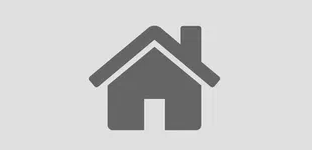
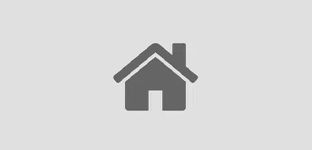
Final modification

Changed region(s): [[0.2885, 0.16, 0.7212, 0.88]]

diff --git a/index.html b/index.html
@@ -11,7 +11,7 @@
 	<link rel="preconnect" href="https://fonts.gstatic.com" crossorigin>
 	<link href="https://fonts.googleapis.com/css2?family=Bebas+Neue&display=swap" rel="stylesheet">
 	<link rel="stylesheet" href="css/style.css">
-	<title>Swiper</title>
+	<title>DAY ZERO STUDIO - Game Developer's Portfolio</title>
 </head>
 <body>
 	<div class="wrapper">
@@ -23,18 +23,19 @@
 					<div class="image-slider__wrapper swiper-wrapper">
 
 						<div data-hash='slide-1' class="image-slider__slide swiper-slide">
-							<video autoplay muted loop="loop" class="video">
-								<source src="videos/overdrive.mp4" type="video/mp4">
-							</video>
+							<img src="img/portfolio.jpg" alt="Picture" class='portfolio'></img>
 							<div class="description">
 
-								<span class="title-project">OVERDRIVE ESCAPE (2023)</span>
+								<span class="title-project">ABOUT ME (1999)</span>
 
-								<p><span class="label actiongame">Action Game</span><span class="label shooter">First-person shooter</span><span class="label access">Early Access</span></p>
-
-								<p>Enter the neon-lit world of Overdrive Escape, a fast-paced 3D first-person shooter that will unleash your abilities and test your skills. You will have to survive against waves of enemies and explore randomly generated levels that will challenge you every time. This scam shooter is made in the style of cyberpunk and synthwave, with breathtaking graphics and a breathtaking soundscape that will keep you on your toes.</p>
-
-								<p><a href="http://specialops.suicidesquad.com/">Download</a></p>
+								<p>I am Orazgylyjov Davut, a professional video game developer and an inspiring entrepreneur. The owner and founder of the game development studio Day Zero Studio. I have been developing video games for my studio for more than 7 years. I have successfully produced four unique games that have earned a place on the Steam platform. Two of these games are currently in the demo version stage, providing gamers with the opportunity to preview the exciting plots and engaging gameplay.</p>
+								<ul class='markers'>
+									<li> Game design - Middle
+									</li><li> Unity 3d - Senior
+									</li><li> C# - Middle
+									</li><li> SOLID
+									</li><li> OOP
+									</li></ul>
 							</div>
 						</div>
 
@@ -46,11 +47,11 @@
 
 								<span class="title-project">OVERDRIVE ESCAPE (2023)</span>
 
-								<p><span class="label actiongame">Action Game</span><span class="label shooter">First-person shooter</span><span class="label access">Early Access</span></p>
+								<p><span class="label pinkTag">Action Game</span><span class="label lightRedTag">First-person shooter</span><span class="label brownTag">Early Access</span></p>
 
 								<p>Enter the neon-lit world of Overdrive Escape, a fast-paced 3D first-person shooter that will unleash your abilities and test your skills. You will have to survive against waves of enemies and explore randomly generated levels that will challenge you every time. This scam shooter is made in the style of cyberpunk and synthwave, with breathtaking graphics and a breathtaking soundscape that will keep you on your toes.</p>
 
-								<p><a href="http://specialops.suicidesquad.com/">Download</a></p>
+								<p><a target='_blank' href="https://store.steampowered.com/app/2398760/Overdrive_Escape/?curator_clanid=44037593">Download</a></p>
 							</div>
 						</div>
 
@@ -60,13 +61,16 @@
 							</video>
 							<div class="description">
 
-								<span class="title-project">OVERDRIVE ESCAPE (2023)</span>
+								<span class="title-project">PSIHANUL (2019)</span>
 
-								<p><span class="label actiongame">Action Game</span><span class="label shooter">First-person shooter</span><span class="label access">Early Access</span></p>
+								<p><span class="label pinkTag">Action Game</span>
+									<span class="label purpleTag">Indie</span>
+									<span class="label redTag">Meat</span>
+									<span class="label brownTag">Simulator</span></p>
 
-								<p>Enter the neon-lit world of Overdrive Escape, a fast-paced 3D first-person shooter that will unleash your abilities and test your skills. You will have to survive against waves of enemies and explore randomly generated levels that will challenge you every time. This scam shooter is made in the style of cyberpunk and synthwave, with breathtaking graphics and a breathtaking soundscape that will keep you on your toes.</p>
+								<p>The most ordinary person has the most ordinary life, job, wife, outstanding mortgage loan, and bosses who do not want to raise his salary, but now the very long-awaited day has come when everyone is given a raise for a long job, but our main character of this story, instead of a raise or at least a bonus for work, was simply fired by hiring in his place they found a man with connections, and here our hero comes home, where his wife left leaving a note that she does not need an unemployed sucker, inheriting the day our hero in complete sadness and depression goes to the office to pick up his things and while he is collecting hang-ups, he goes mad and decides to take revenge on the company for his superiors will be very sorry that they fired him.</p>
 
-								<p><a href="http://specialops.suicidesquad.com/">Download</a></p>
+								<p><a target='_blank' href="https://store.steampowered.com/app/1152000/Psihanul/?curator_clanid=44037593">Download</a></p>
 							</div>
 						</div>
 
@@ -76,13 +80,16 @@
 							</video>
 							<div class="description">
 
-								<span class="title-project">OVERDRIVE ESCAPE (2023)</span>
+								<span class="title-project">VIKING LIFE (DEMO 2022)</span>
 
-								<p><span class="label actiongame">Action Game</span><span class="label shooter">First-person shooter</span><span class="label access">Early Access</span></p>
+								<p><span class="label pinkTag">Action Game</span>
+									<span class="label blueTag">Roguelike Action Game</span>
+									<span class="label redTag">Bagel</span>
+									<span class="label brownTag">Simulator</span></p>
 
-								<p>Enter the neon-lit world of Overdrive Escape, a fast-paced 3D first-person shooter that will unleash your abilities and test your skills. You will have to survive against waves of enemies and explore randomly generated levels that will challenge you every time. This scam shooter is made in the style of cyberpunk and synthwave, with breathtaking graphics and a breathtaking soundscape that will keep you on your toes.</p>
+								<p>You are an ordinary Viking. Your task is to assemble a squad and attack other settlements, after each victory you will have a choice of 4 abilities, each with a unique leveling or talent. When you die, you lose all your skills and troops. This game is still at an early stage of development, we have only described what is already available in the game.</p>
 
-								<p><a href="http://specialops.suicidesquad.com/">Download</a></p>
+								<p><a target='_blank' href="https://store.steampowered.com/app/2058670/Viking_Life/?curator_clanid=44037593">Download</a></p>
 							</div>
 						</div>
 
@@ -92,13 +99,18 @@
 							</video>
 							<div class="description">
 
-								<span class="title-project">OVERDRIVE ESCAPE (2023)</span>
+								<span class="title-project">LEAVING (DEMO 2020)</span>
 
-								<p><span class="label actiongame">Action Game</span><span class="label shooter">First-person shooter</span><span class="label access">Early Access</span></p>
+								<p><span class="label lightBlueTag">Adventure</span>
+									<span class="label blueDarkTag">Puzzle</span>
+									<span class="label pinkTag">Survival</span>
+									<span class="label brownTag">3D</span></p>
 
-								<p>Enter the neon-lit world of Overdrive Escape, a fast-paced 3D first-person shooter that will unleash your abilities and test your skills. You will have to survive against waves of enemies and explore randomly generated levels that will challenge you every time. This scam shooter is made in the style of cyberpunk and synthwave, with breathtaking graphics and a breathtaking soundscape that will keep you on your toes.</p>
+								<p>A first-person psychological horror game with puzzle elements. The game is inspired by legends and horror stories of the afterlife. Work on the script was carried out by the writer Aina's Way.
+									In the game, you will wake up in a new world, where dead souls are not doomed to rest. You will have to find out who you were when you were alive, what kind of place it is. This game has several unique endings, each of which depends on your actions during the passage of the game.
+									In the game, you can easily communicate with other characters and also choose a dialogue, some dialogues will decide your future relationships and help from them..</p>
 
-								<p><a href="http://specialops.suicidesquad.com/">Download</a></p>
+								<p><a target='_blank' href="https://store.steampowered.com/app/1365530/Leaving/?curator_clanid=44037593">Download</a></p>
 							</div>
 						</div>
 				</div>

diff --git a/css/style.css b/css/style.css
@@ -10,11 +10,11 @@
 a{
 	text-decoration: none;
 }
-ul,
+/* ul,
 ol,
 li{
 	list-style: none;
-}
+} */
 img{
 	vertical-align: top;
 }
@@ -80,16 +80,6 @@ html {
   overflow: visible;
 }
 
-
-.image-slider__image{
-	text-align: center;
-}
-
-.image-slider__image img{
-	max-width: 50%;
-	max-height: 50%;
-}
-
 .image-slider__wrapper{
 	margin: auto;
 	top: 10%;
@@ -128,11 +118,17 @@ html {
   opacity: 1;
 	filter: grayscale(0%);
 }
+.gallery-thumbs__slide{
+
+}
 
 .gallery-thumbs__slide img{
-	width: 250px;
-  height: 100px;
+	width: 70%;
+  height: 80%;
 	border-radius: 25px;
+	margin-left: 15%;
+	margin-right: 15%;
+	object-fit: cover;
 }
 
 /* iframe {
@@ -167,6 +163,39 @@ video {
 	background-size: 100%;
 	box-shadow: 4px 4px 20px -6px rgba(0, 0, 0, 0.25);
 	border-radius: 6px;
+}
+
+.portfolio {
+	width: 35%;
+	min-width: 2px;
+	position: relative;
+	display: block;
+	float: left;
+	clear: left;
+	height: calc(0.65 * 56.25%)*4;
+	overflow: hidden;
+	background-size: 100%;
+	box-shadow: 4px 4px 20px -6px rgba(0, 0, 0, 0.25);
+	border-radius: 6px;
+	margin-left: 20%;
+}
+ul {
+	display: block;
+	list-style: disc;
+	margin-block-start: 1em;
+	margin-block-end: 1em;
+	margin-inline-start: 0px;
+	margin-inline-end: 0px;
+	padding-inline-start: 40px;
+	font-weight: bold;
+}
+li{
+	margin-bottom: 0.75em;
+}
+
+.markers li::marker {
+	color: #000;
+	font-size: 18px;
 }
 .description {
 	width: 30%;
@@ -214,18 +243,38 @@ p {
 	margin-bottom: 0.3em;
 	margin-right: 0.3em;
 }
-
-.actiongame {
+.image-slider .swiper-button-prev::after{
+	color: #888888;
+}
+.image-slider .swiper-button-next::after{
+	color: #888888;
+}
+.pinkTag {
 	background-color: #A63661;
-	content: 'Action Game';
 }
-.shooter {
+.lightRedTag {
 	background-color: #C83456;
-	content: "First-person shooter";
 }
-.access {
+.brownTag {
 	background-color: #492E34;
-	content: "Early Access";
+}
+.purpleTag{
+	background-color: #874b9c;
+}
+
+.redTag{
+	background-color: #ce2f4a;
+}
+
+.blueTag{
+	background-color: #7051ec;
+	content: "Roguelike Action Game";
+}
+.lightBlueTag{
+	background-color: #3b95ea;
+}
+.blueDarkTag{
+	background-color: #0154a2;
 }
 
 a:link, a:visited, a {
@@ -236,5 +285,17 @@ a:link, a:visited, a {
 	cursor: pointer;
 }
 
+@media only screen and (max-width: 768px){
+	.video {
+		width: 100%;}
 
-
+	.description {
+		width: 100%;
+		padding-top: 10%;}
+		.image-slider .swiper-button-prev::after {
+			font-size: 2.5rem;
+		}
+		.image-slider .swiper-button-next::after{
+			font-size: 2.5rem;
+		}
+	}
